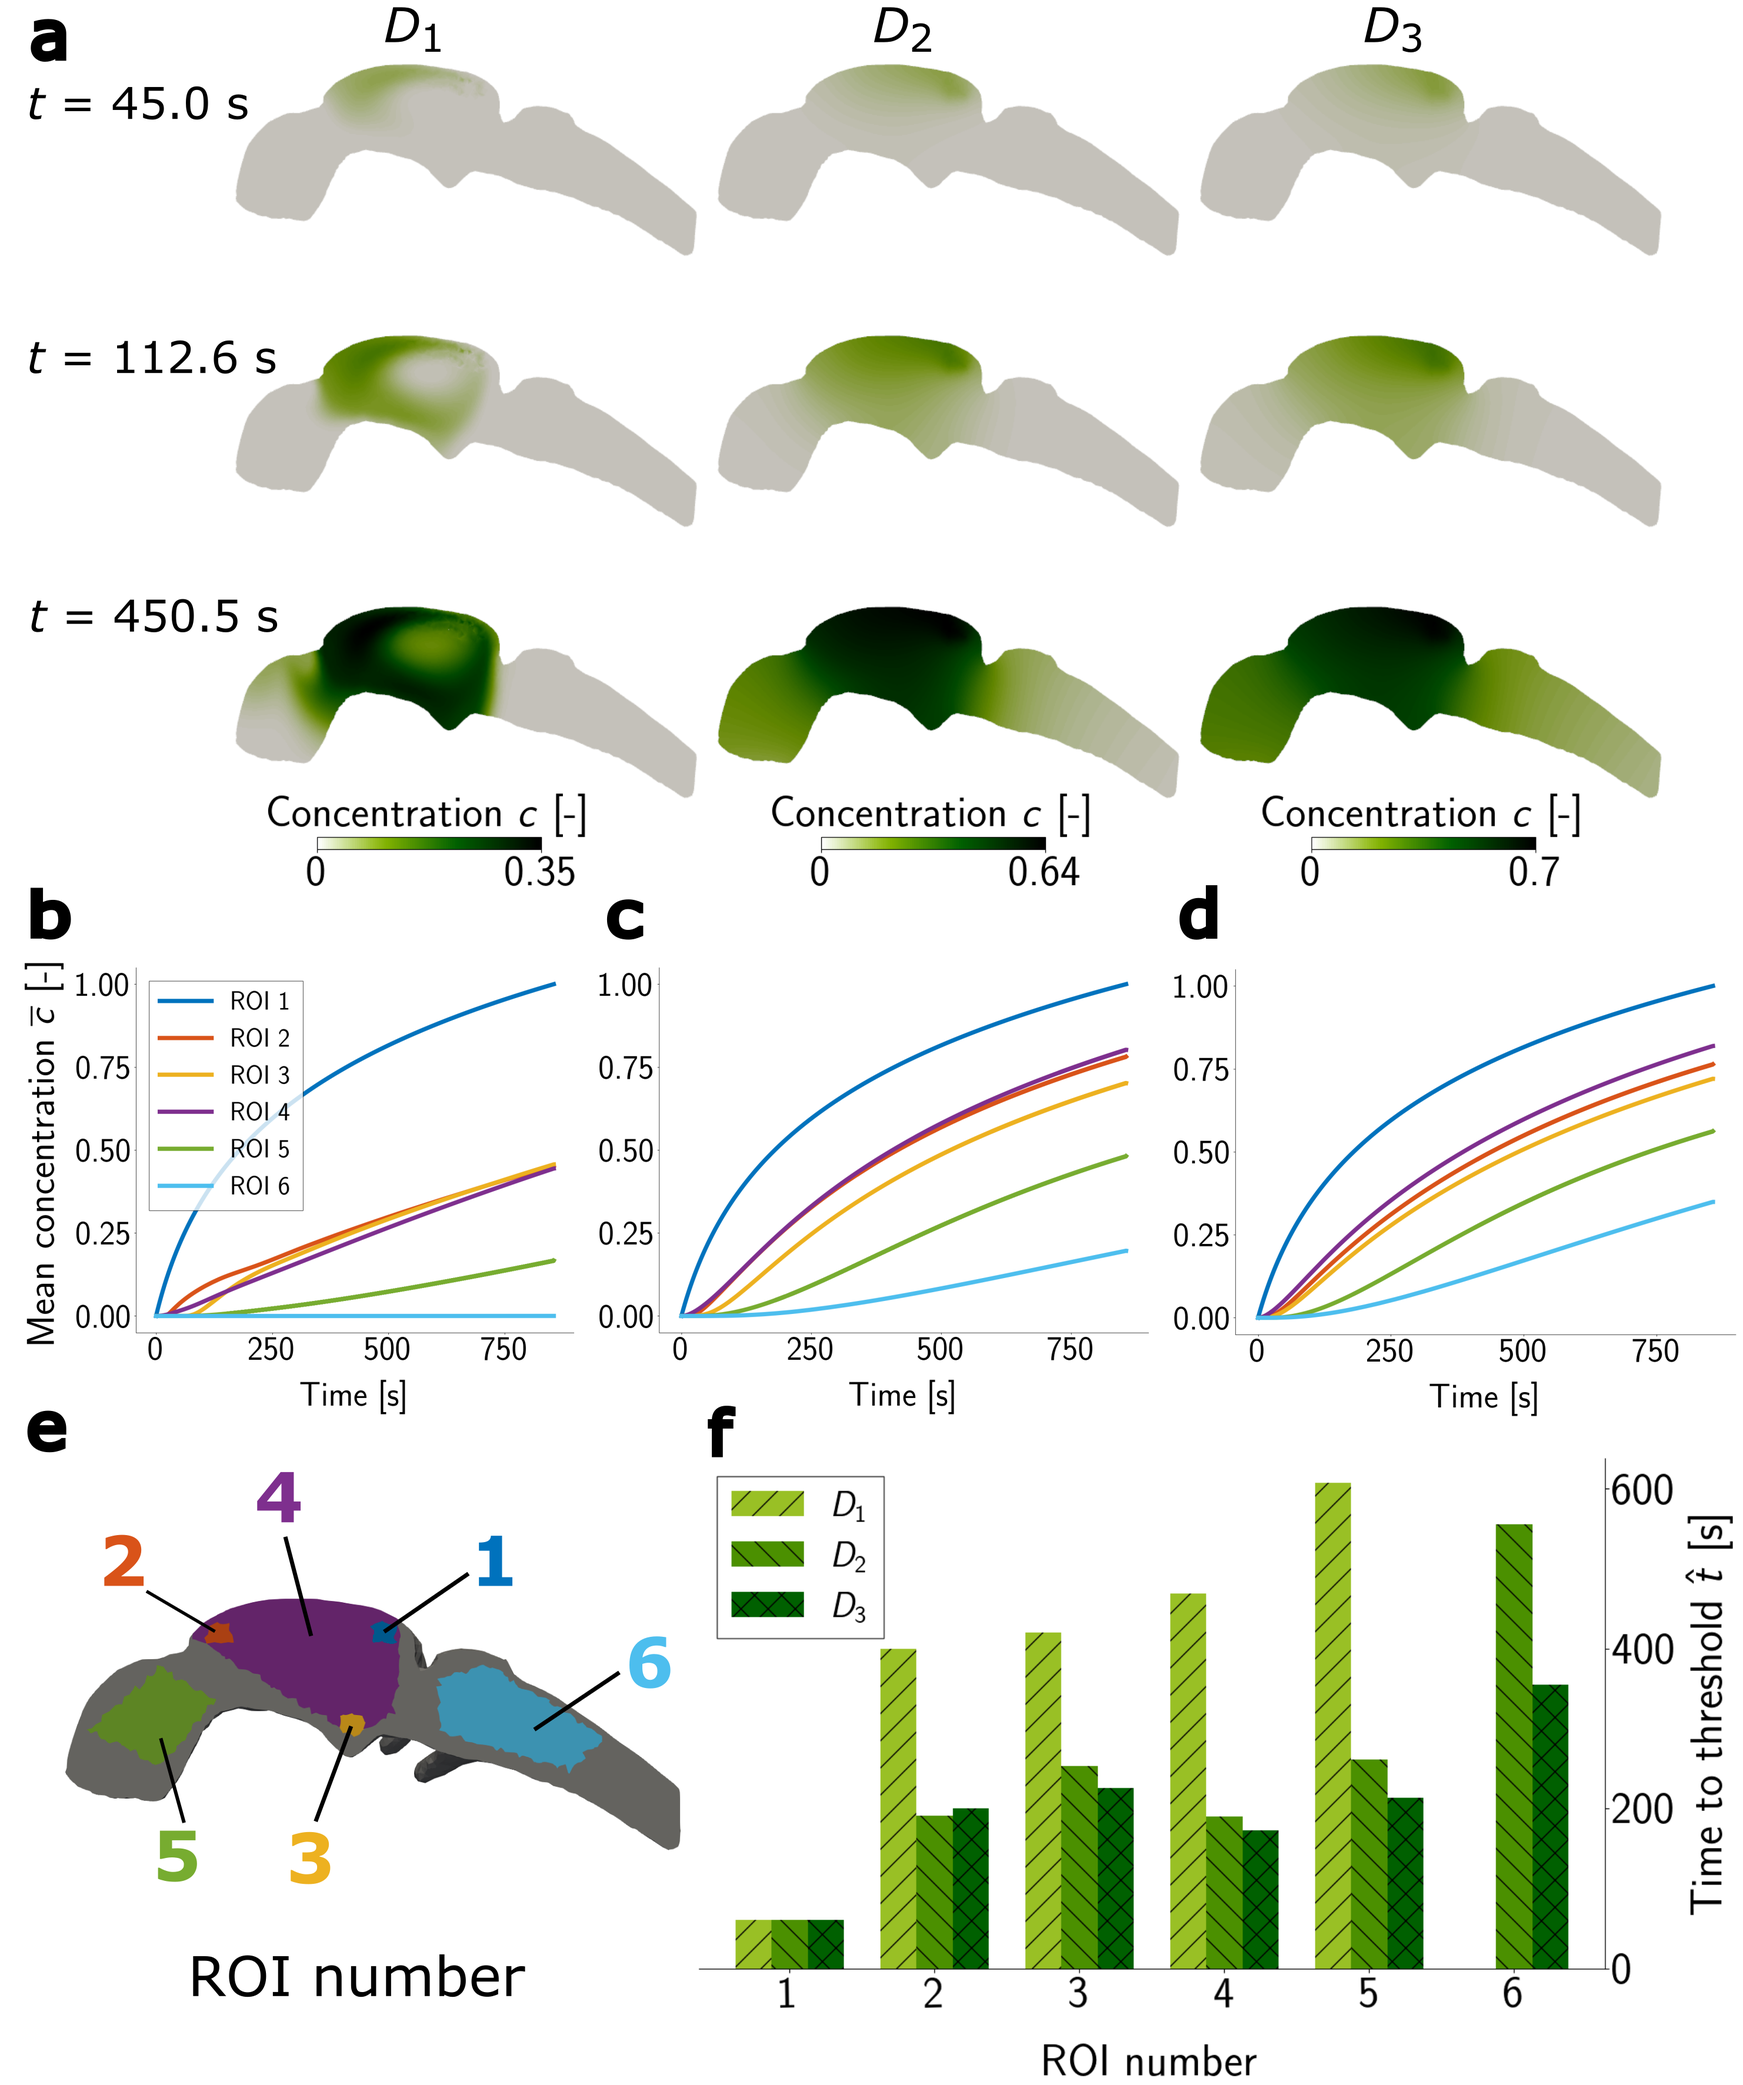
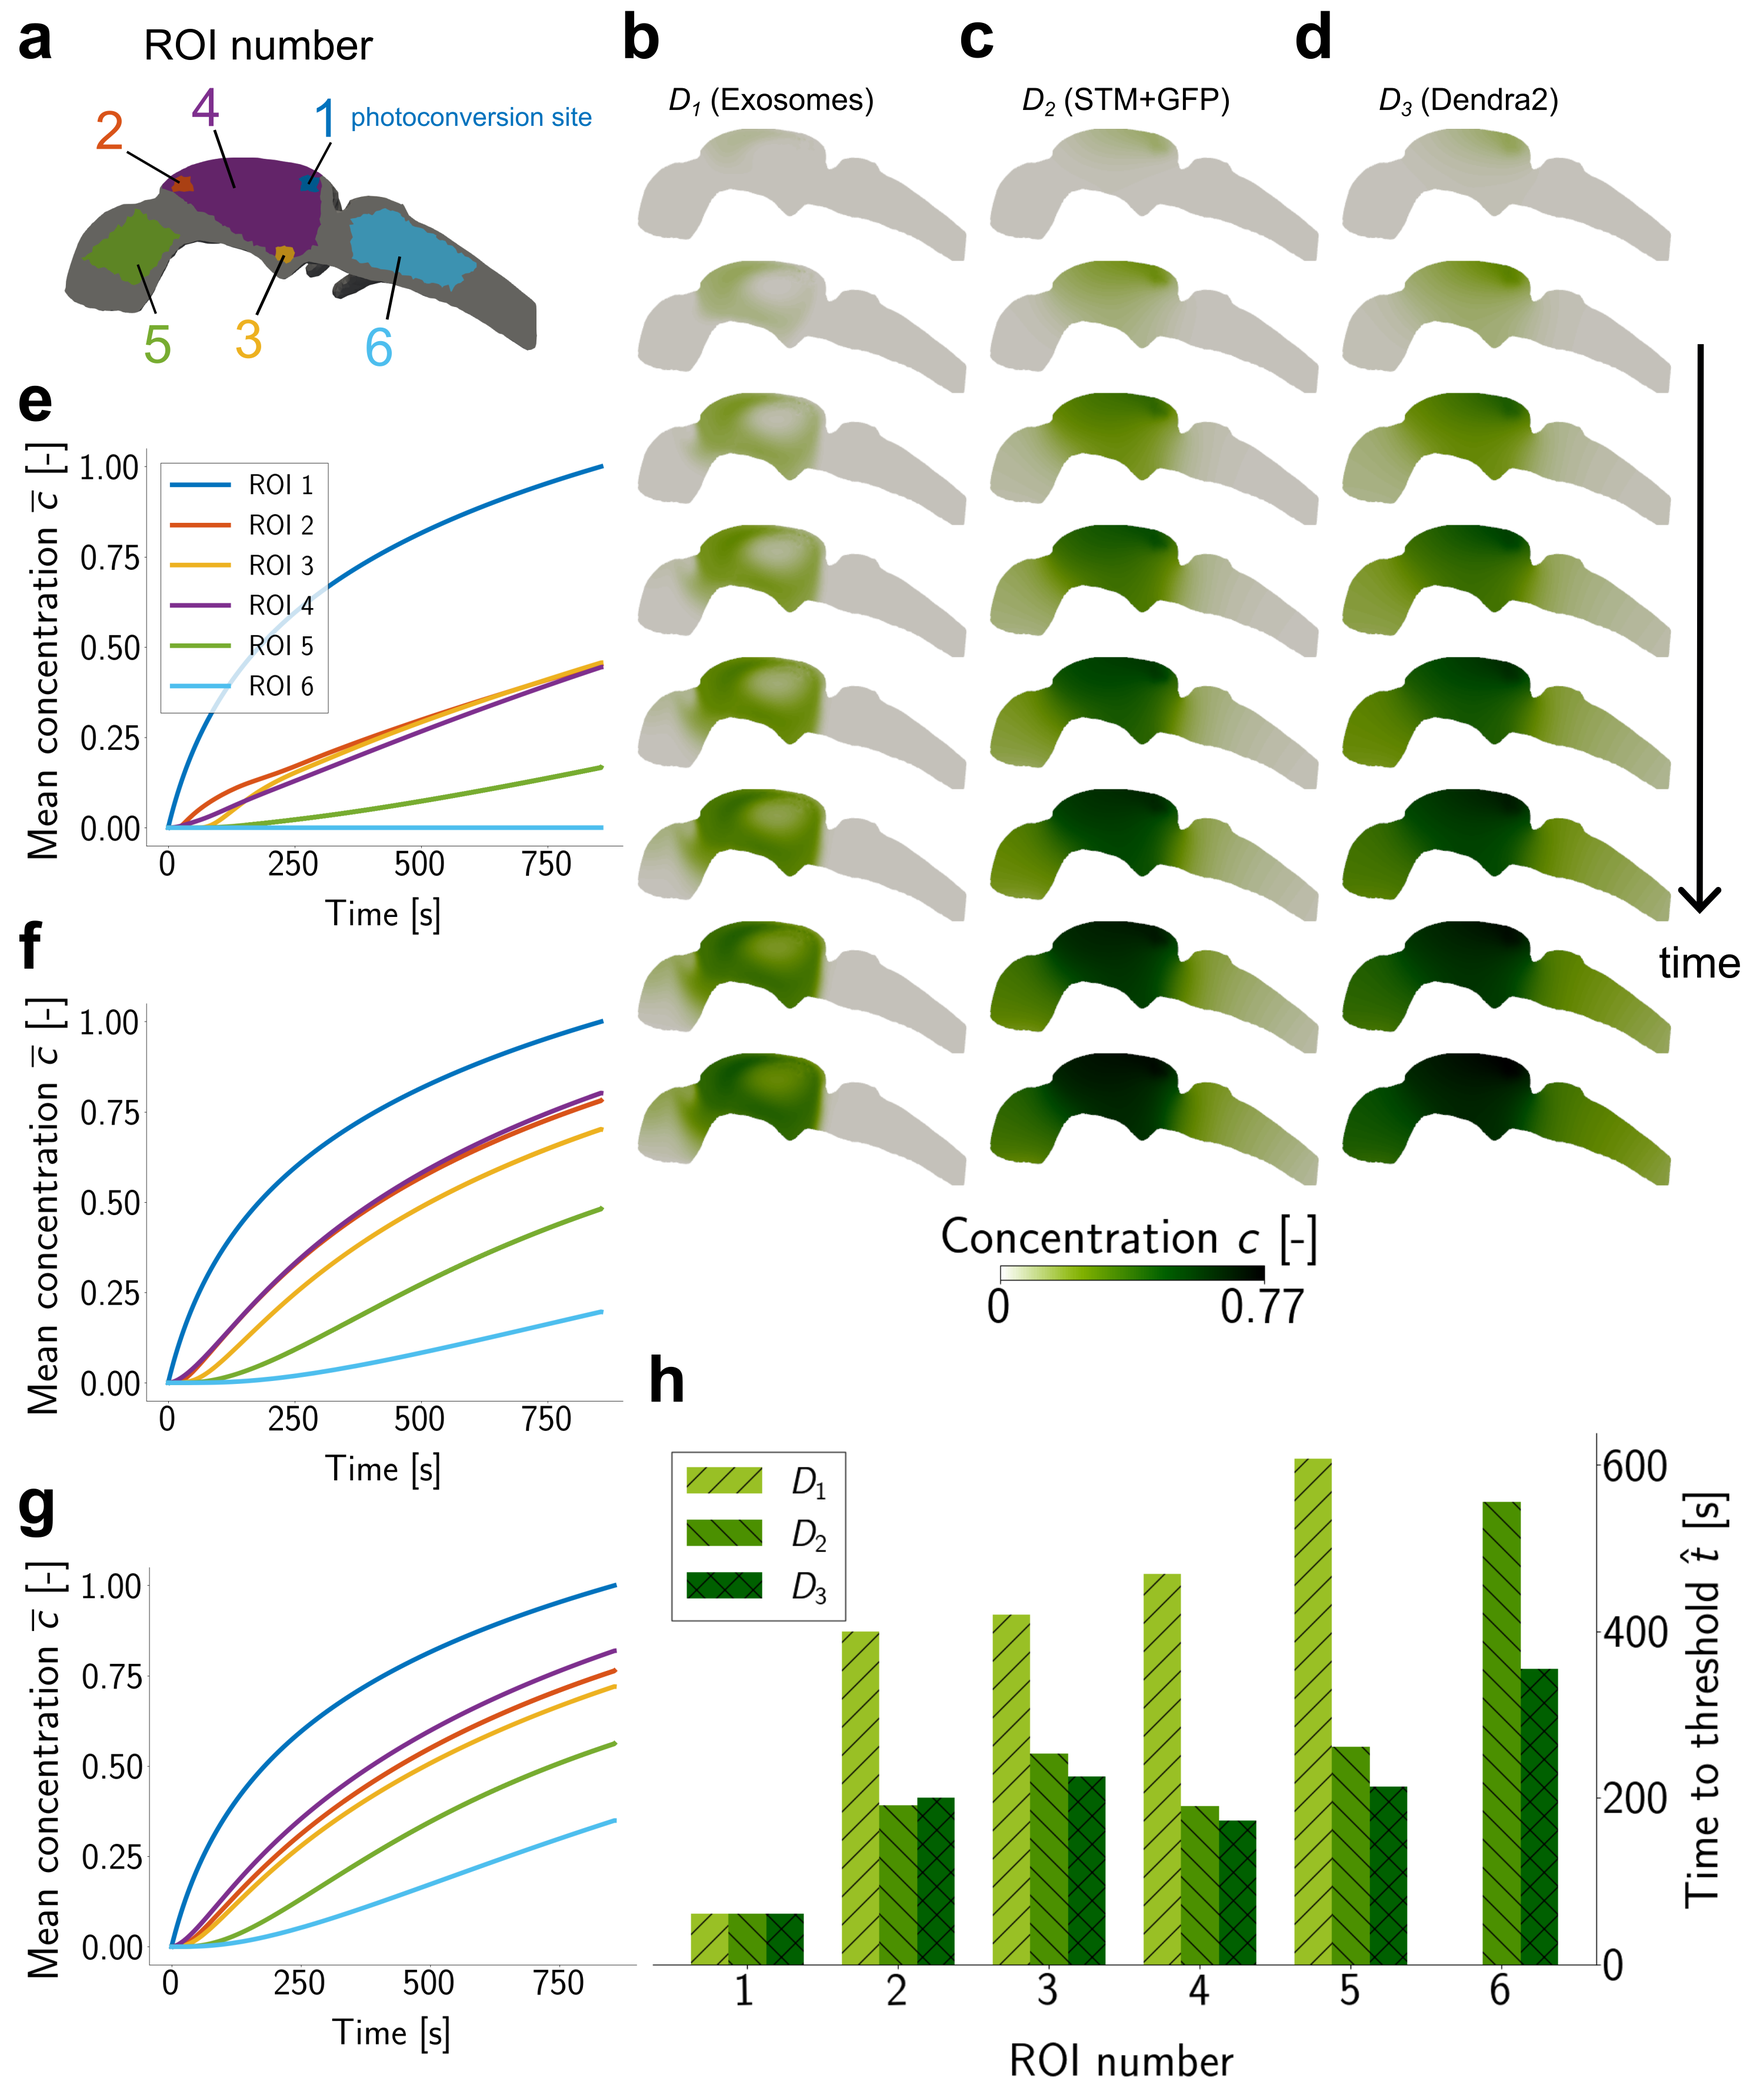
new figure 2, update slice plotting

diff --git a/src/plot_slices_concentration.py b/src/plot_slices_concentration.py
@@ -10,8 +10,7 @@ from mpi4py    import MPI
 from basix.ufl import element
 from utilities.create_colormap import register_colormaps
 
-""" Visualize concentration slices in a 3x3 figure. """
-
+""" Visualize concentration slices at various time instants. """
 
 # Set latex text properties
 plt.rcParams.update({
@@ -53,21 +52,18 @@ f = 2.22 # Cardiac frequency [Hz]
 period = 1 / f # Cardiac period [s]
 dt = period / 20
 times = record_periods*period
-vis_periods = [record_periods[2], record_periods[3], record_periods[6]]
+vis_periods = [record_periods[2], record_periods[3], record_periods[4],
+               record_periods[5], record_periods[6], record_periods[7],
+               record_periods[8], record_periods[9]]
 
 grids = []
 m = 0 # grid index
 for j in range(len(vis_periods)):
     for i in [1, 2, 3]:    
-        if i==1:
-            W = W1
-            input_filename = input_filename1
-        elif i==2:
-            W = W2
-            input_filename = input_filename2
-        else:
-            W = W3
-            input_filename = input_filename3
+        if   i==1: W = W1
+        elif i==2: W = W2
+        elif i==3: W = W3
+
         cells, types, x = dfx.plot.vtk_mesh(W)
         grids.append(pv.UnstructuredGrid(cells, types, x))
         c_in = dfx.fem.Function(W)
@@ -78,34 +74,18 @@ for j in range(len(vis_periods)):
         m += 1 # increment
 
 # Create plot object
-plot_shape = (3, 3)
-# plotter = pv.Plotter(shape=plot_shape, window_size=[3200, 1400], border=False)
-plotter = pv.Plotter(shape=plot_shape, window_size=[1600, 900], border=False)
+plot_shape = (len(vis_periods), 3)
+plotter = pv.Plotter(shape=plot_shape, window_size=[1200, 1200], border=False)
 
 # Set colormap
 register_colormaps()
 cmap = "wgk"
 
-# Colorbar arguments
-sargs = dict(
-    title_font_size=100,
-    label_font_size=150,
-    shadow=True,
-    n_labels=2,
-    italic=True,
-    fmt="%.1g",
-    font_family="times",
-    vertical=True,
-    title='',
-    width=0.05,
-    height=0.8,
-    position_y=0.1
-)
+# Set colorbar limits
+last_slice = grids[-1].slice(normal=[0, -1, 0])
+upper_limit = last_slice.point_data["c"].max()
+clim = [0, upper_limit] # Colorbar max is max concentration
 
-clims = {0 : 0.35, # Colorbar limits for the different diffusion coefficients
-         1 : 0.64,
-         2 : 0.70
-}
 # Add grids to plotter
 m = 0 # grid index
 for i in range(plot_shape[0]):
@@ -114,15 +94,15 @@ for i in range(plot_shape[0]):
 
         plotter.camera.position    = (x_mid, 0, z_mid*1.1)
         plotter.camera.focal_point = (x_mid, y_max, z_mid)
-        plotter.camera.zoom(0.295)
+        plotter.camera.zoom(0.375)
         slice = grids[m].slice(normal=[0, -1, 0])
-        plotter.add_mesh(slice, show_scalar_bar=False, cmap=cmap, clim=[0, clims[j]])
+        plotter.add_mesh(slice, show_scalar_bar=False, cmap=cmap, clim=clim)
         m += 1
-        
+
 # Display the plot and save to file
-save_fig = 0
+save_fig = 1
 if save_fig:
-    output_filename = f'../output/illustrations/original/{tau_version}/concentration_slices_DG{k}_varying_D'
+    output_filename = f'../output/illustrations/original/{tau_version}/concentration_slices_varying_D'
     plotter.show(screenshot=output_filename+'.png')
 else:
     plotter.show()

diff --git a/src/utilities/create_colormap.py b/src/utilities/create_colormap.py
@@ -1,25 +1,8 @@
-def register_colormaps() -> None:
+def register_colormaps():
     import matplotlib
     import matplotlib.colors
-
-    colors_greens = [[1, 0.984314, 0.901961],
-            [0.960784, 0.94902, 0.670588],
-            [0.886275, 0.921569, 0.533333],
-            [0.784314, 0.878431, 0.396078],
-            [0.666667, 0.839216, 0.294118],
-            [0.556863, 0.8, 0.239216],
-            [0.431373, 0.760784, 0.160784],
-            [0.317647, 0.721569, 0.113725],
-            [0.211765, 0.678431, 0.082353],
-            [0.109804, 0.631373, 0.05098],
-            [0.082353, 0.588235, 0.082353],
-            [0.109804, 0.54902, 0.152941],
-            [0.113725, 0.521569, 0.203922],
-            [0.117647, 0.490196, 0.243137],
-            [0.117647, 0.45098, 0.270588],
-            [0.113725, 0.4, 0.278431],
-            [0.109804, 0.34902, 0.278431]
-    ]
+    import numpy as np
+    import scipy.interpolate
 
     colors_wgk = [[1, 1, 1],
               [0.901961, 0.941176, 0.796078],
@@ -40,8 +23,6 @@ def register_colormaps() -> None:
               [0, 0, 0]
     ]
     # Refine color data
-    import numpy as np
-    import scipy.interpolate
     arr = np.array(colors_wgk)
     x = np.linspace(0, 1, len(arr[:, 0]))
     interp_R = scipy.interpolate.interp1d(x, arr[:, 0])
@@ -73,7 +54,7 @@ if __name__=='__main__':
     })
     plt.rcParams["text.latex.preamble"] += "\\usepackage{sfmath}"
 
-    bar_type = 2
+    bar_type = 1
 
     if bar_type==1:
         fig = plt.figure(figsize=(5.5, 1.5))
@@ -82,10 +63,10 @@ if __name__=='__main__':
         cmap = 'wgk'
         cb = matplotlib.colorbar.ColorbarBase(ax, cmap=cmap, orientation='horizontal')
         cb.set_ticks([0, 1])
-        cb.set_ticklabels([0, 0.70])
+        cb.set_ticklabels([0, 0.77])
         ax.tick_params(axis='x', labelsize=46)
         ax.set_title(r"Concentration $c$ [-]", fontsize=46)
-        fig_name = "../output/illustrations/colorbars/colorbar_D3.png"
+        fig_name = "../../output/illustrations/colorbars/colorbar_D3.png"
     elif bar_type==2:
         fig = plt.figure(figsize=(15, 4))
         ax = fig.add_axes([0.2, 0.4, 0.6, 0.12])
@@ -95,7 +76,7 @@ if __name__=='__main__':
         cb.set_ticklabels([0, 200, 400, 600, 800])
         ax.tick_params(axis='x', labelsize=46)
         ax.set_title(r"Time to threshold [s]", fontsize=46, pad=20.0)
-        fig_name = "../output/illustrations/colorbars/colorbar_ttt.png"
+        fig_name = "../../output/illustrations/colorbars/colorbar_ttt.png"
 
     fig.tight_layout(pad=0)
     fig.savefig(fig_name, bbox_inches=[])

diff --git a/src/plot_mean_concentrations.py b/src/plot_mean_concentrations.py
@@ -8,7 +8,7 @@ import matplotlib.pyplot as plt
 
 from mpi4py       import MPI
 from scipy.io     import loadmat
-from imports.mesh import create_ventricle_volumes_meshtags
+from utilities.mesh import create_ventricle_volumes_meshtags
 
 # Set matplotlib properties
 plt.rcParams.update({
@@ -88,9 +88,10 @@ for idx, molecule in enumerate(molecules):
     
     ax.set_xlabel("Time [s]", fontsize=65, labelpad=25)
     if molecule=='D1': 
-        # Add legend and y-axis label
+        # Add legend 
         ax.legend(loc='best', fontsize=50, frameon=True, fancybox=False, edgecolor='k')
-        ax.set_ylabel(r"Mean concentration $\overline{c}$ [-]", fontsize=75, labelpad=25)
+    # Add y-axis label
+    ax.set_ylabel(r"Mean concentration $\overline{c}$ [-]", fontsize=75, labelpad=25)
     ax.tick_params(labelsize=65)
     fig.tight_layout()
 
